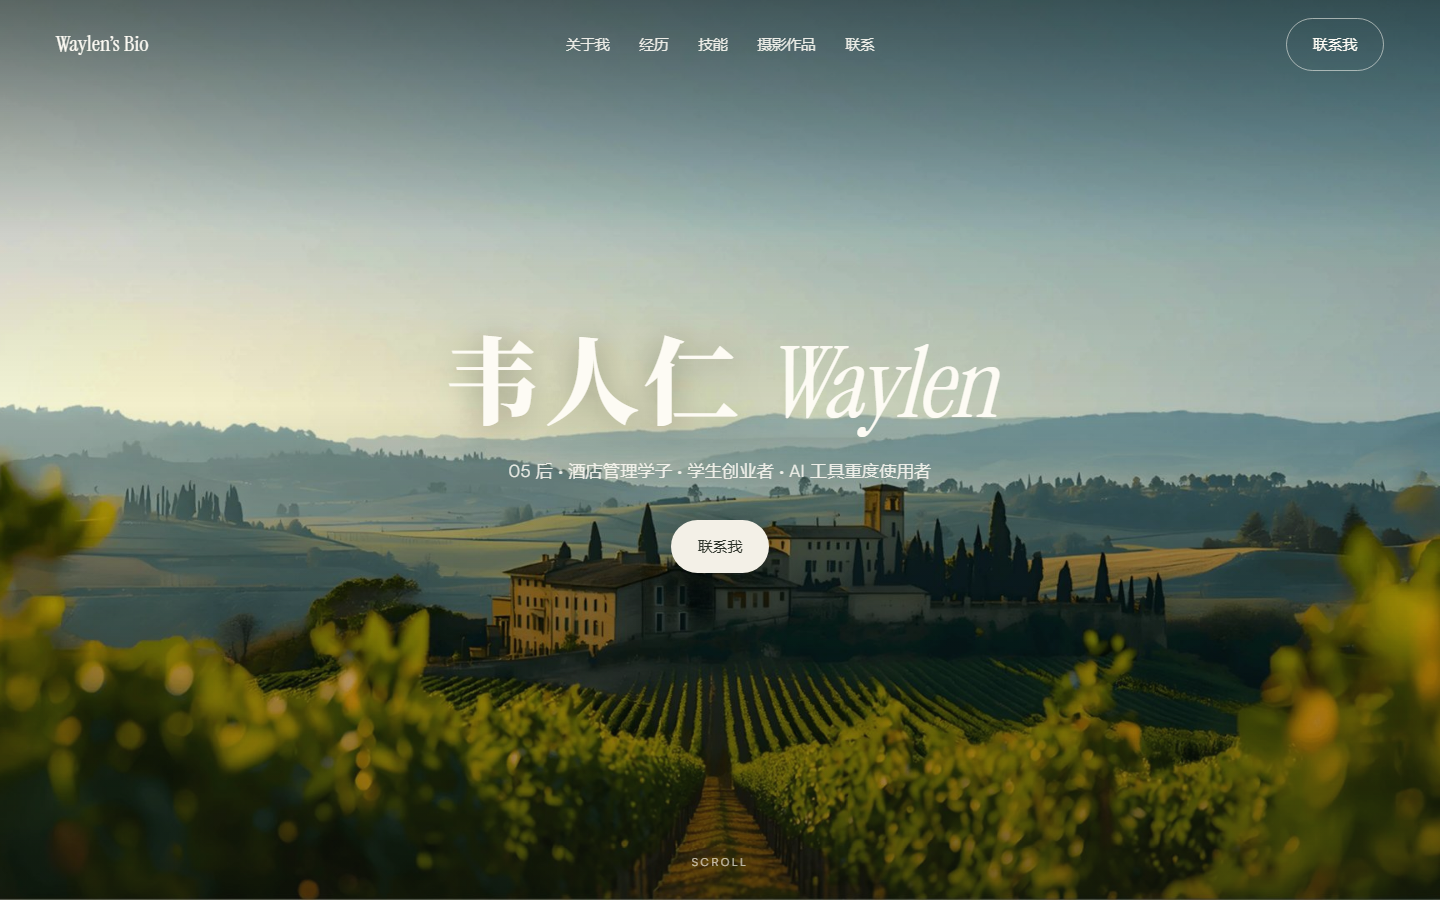
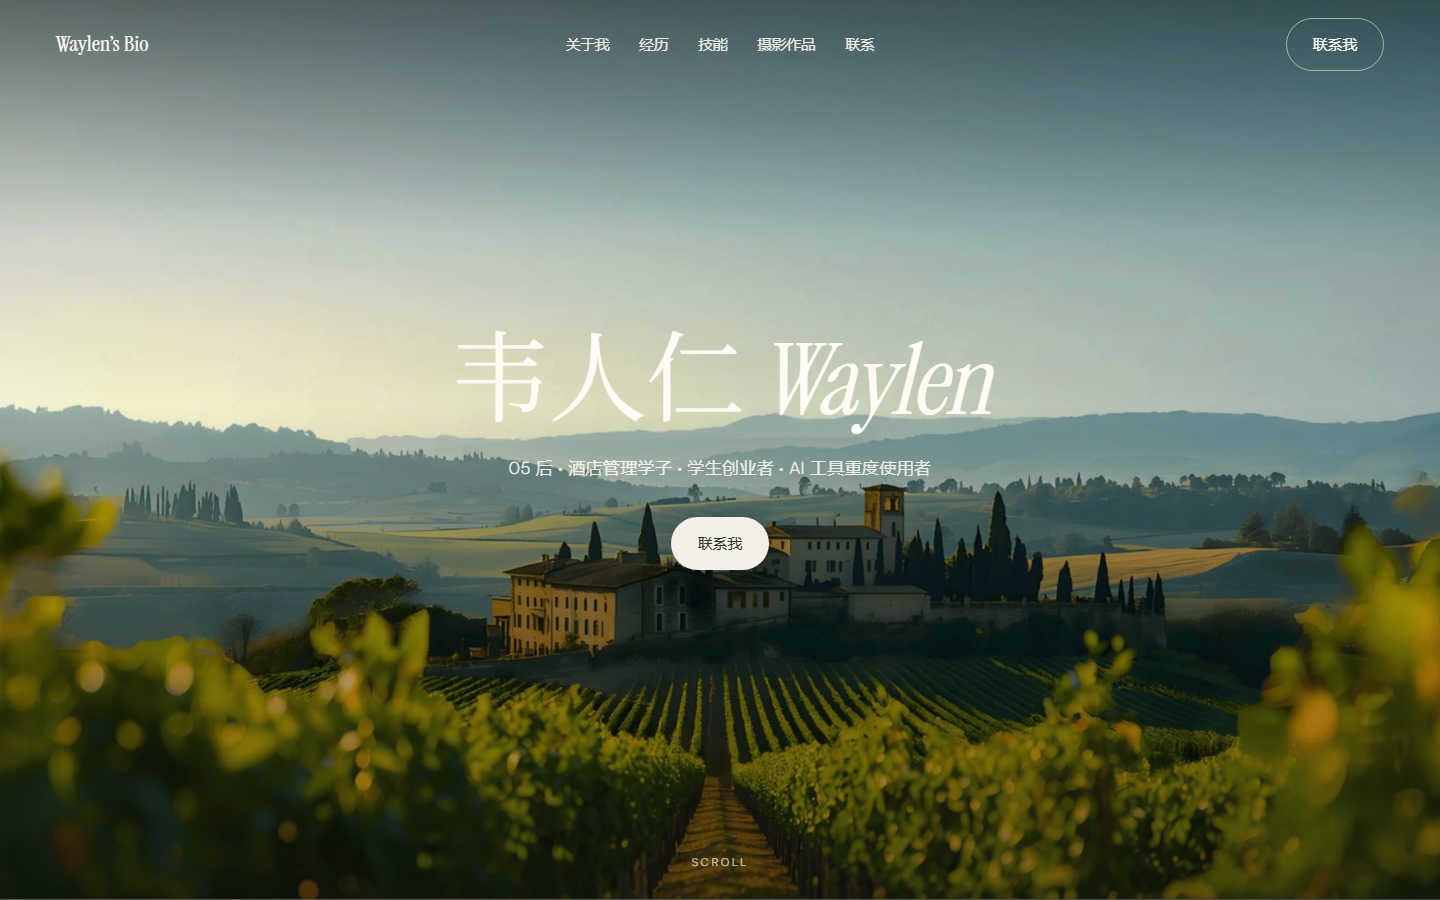
顶栏导航居中；首屏名字恢复原字体（撤销艺术字），更新预览图

Changed region(s): [[0.3125, 0.3733, 0.7188, 0.5289], [0.4688, 0.56, 0.5312, 0.6533]]

diff --git a/css/style.css b/css/style.css
@@ -31,12 +31,16 @@
   font-display: swap;
 }
 
-/* ---------- 中文艺术字体（只含「韦人仁」三字子集，每个 1–3 KB） ----------
-   默认启用：思源宋体 Black。想换风格只改 .hero__cn 的 font-family 即可，
-   下面几款已一并放在 fonts/ 里（都是同一批三字子集）：
+/* ---------- 中文艺术字体（备选，当前未启用） ----------
+   这些 @font-face 没有被引用，浏览器不会下载，不影响页面速度。
+   想把某个字生效在首屏名字上：
+     1) index.html 里把 <h1>韦人仁 <em>Waylen</em></h1> 改成
+        <h1><span class="hero__cn">韦人仁</span> <em>Waylen</em></h1>
+     2) .hero h1 下面加：.hero__cn{font-family:"Noto Serif SC Black","Songti SC",serif;}
+   五款都已放在 fonts/，每款只含「韦人仁」三字（1–3 KB）：
      01 毛笔书法   → "Ma Shan Zheng"        （ma-shan-zheng.woff2）
      02 站酷小薇   → "ZCOOL XiaoWei"        （zcool-xiaowei.woff2）
-     03 厚重宋体   → "Noto Serif SC Black"  （noto-serif-sc-black.woff2，当前）
+     03 厚重宋体   → "Noto Serif SC Black"  （noto-serif-sc-black.woff2）
      04 行书       → "Long Cang"            （long-cang.woff2）
      05 硬笔行书   → "Zhi Mang Xing"        （zhi-mang-xing.woff2）
    子集只覆盖 U+4EBA / U+4EC1 / U+97E6，用在别的字上会回落到系统字体。 */
@@ -368,17 +372,6 @@ ul { margin: 0; padding: 0; list-style: none; }
   text-wrap: balance;
 }
 .hero h1 em { font-style: italic; }
-
-/* 中文名字：艺术字体（思源宋体 Black / Noto Serif SC 900）+ 舒展字距，
-   与右侧 Instrument Serif 斜体同为衬线，粗细呼应；换成书法体见文件顶部字体注释 */
-.hero__cn {
-  font-family: "Noto Serif SC Black", "Songti SC", "STSong", serif;
-  font-weight: 900;
-  font-size: 0.96em;
-  letter-spacing: 0.05em;
-  margin-right: 0.05em;
-  text-shadow: 0 6px 34px rgba(8, 12, 8, 0.35);
-}
 .hero__sub {
   margin-top: 22px;
   font-size: clamp(14px, 1.4vw, 17px);

diff --git a/index.html b/index.html
@@ -49,7 +49,7 @@
       <img src="img/hero.jpg" alt="托斯卡纳乡间的葡萄园与庄园" fetchpriority="high">
     </div>
     <div class="hero__inner">
-      <h1><span class="hero__cn">韦人仁</span> <em>Waylen</em></h1>
+      <h1>韦人仁 <em>Waylen</em></h1>
       <p class="hero__sub">05 后 · 酒店管理学子 · 学生创业者 · AI 工具重度使用者</p>
       <a class="btn btn--ghost" href="#contact">联系我</a>
     </div>
